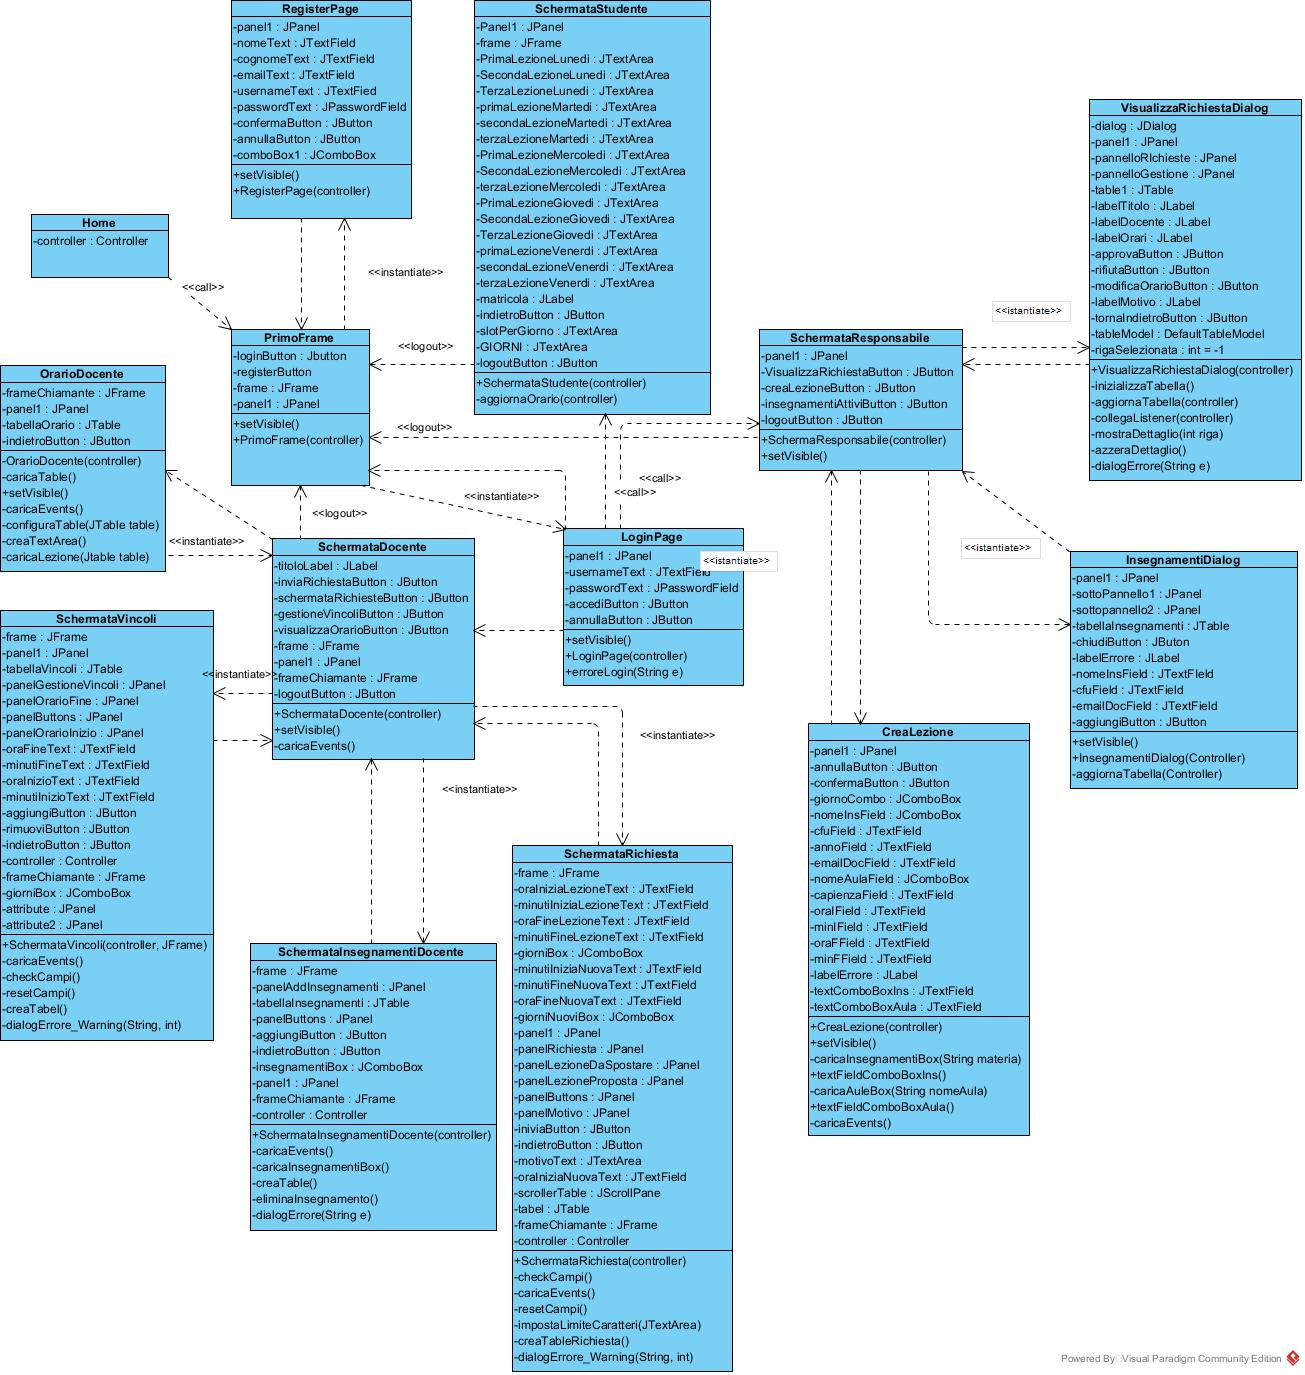
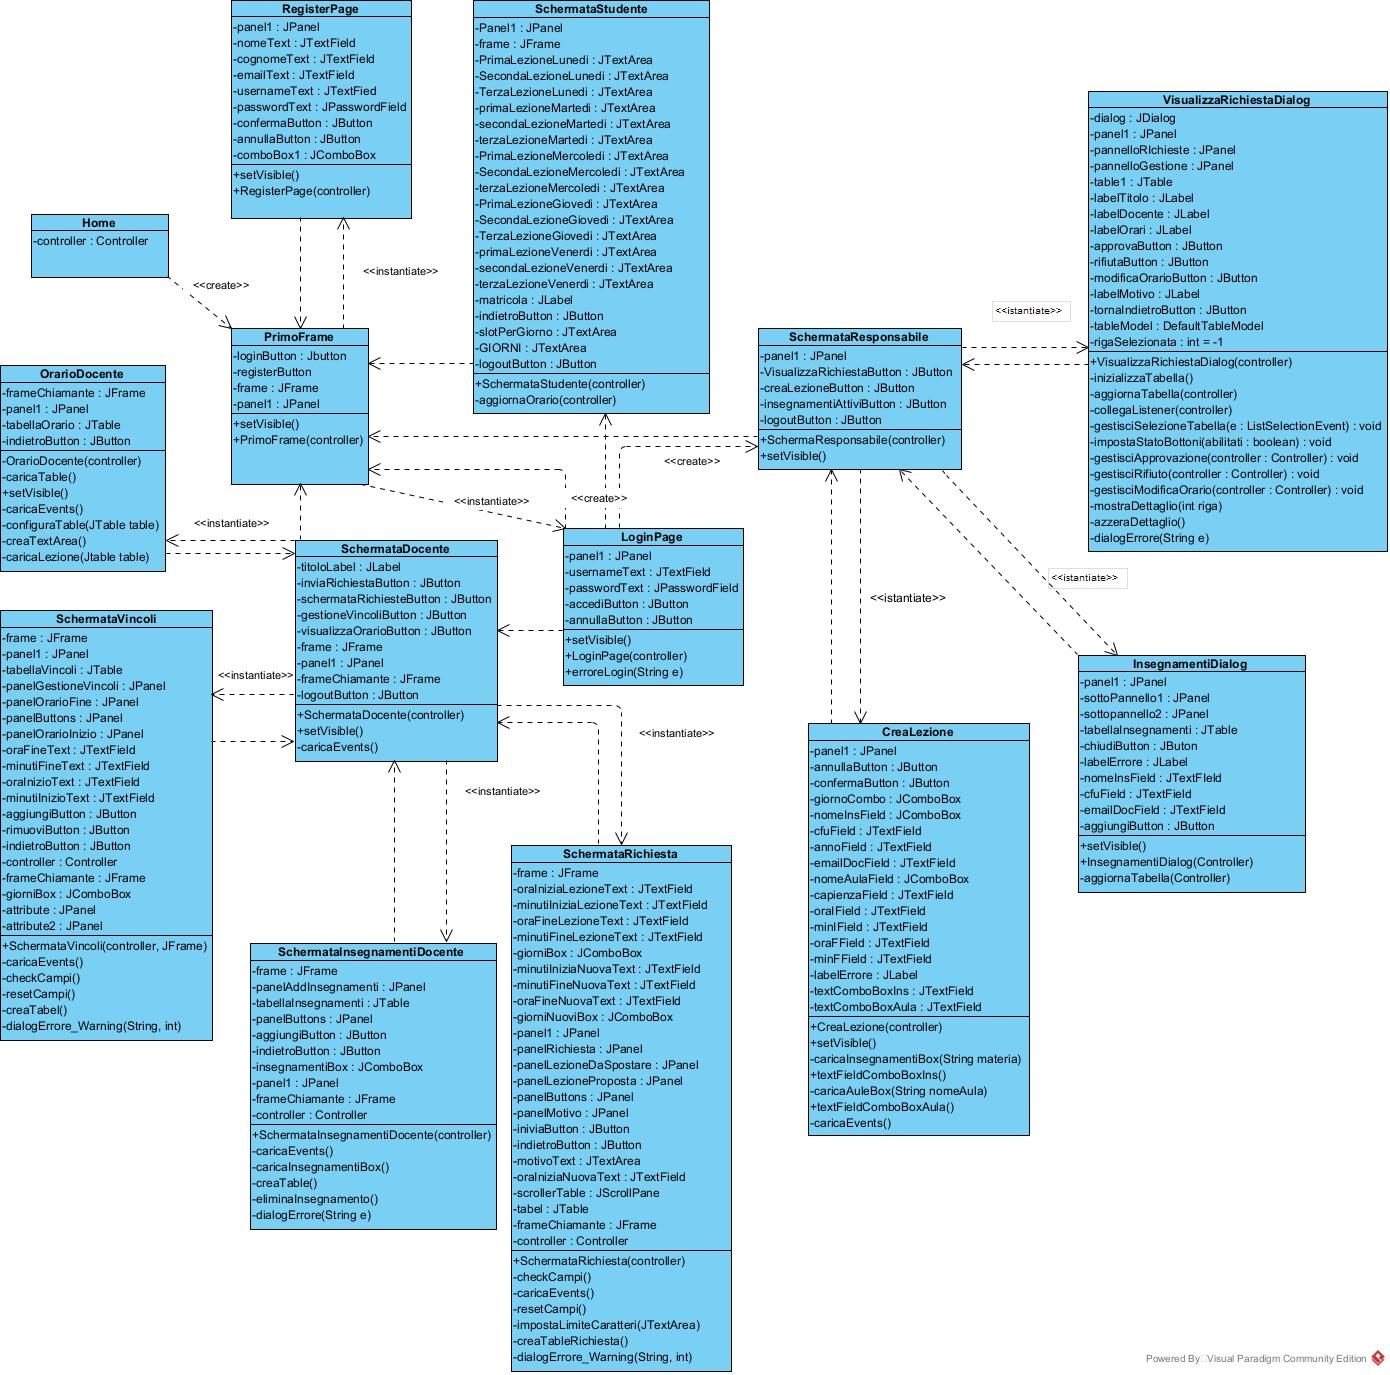
Correzzione Gui ClassDIagram

Changed region(s): [[0.0, 0.0, 1.0, 1.0], [0.8276, 0.9775, 1.0, 1.0], [0.613, 0.4276, 0.6743, 0.4582]]

diff --git a/src/main/java/implementazionedao/AulaPostgresDao.java b/src/main/java/implementazionedao/AulaPostgresDao.java
@@ -22,8 +22,8 @@ public class AulaPostgresDao implements AulaDAO {
 
     @Override
     public void salvaAulaDB(String nome, int capienza) throws SQLException {
-        String sql = "INSERT INTO aula (nome,capienza) " +
-                "VALUES (?,?)";
+        String sql = "INSERT INTO \"aula\" " +
+                "(\"nome\",\"capienza\") VALUES (?,?);";
         try (PreparedStatement ps = connection.prepareStatement(sql)) {
             ps.setString(1, nome);
             ps.setInt(2, capienza);